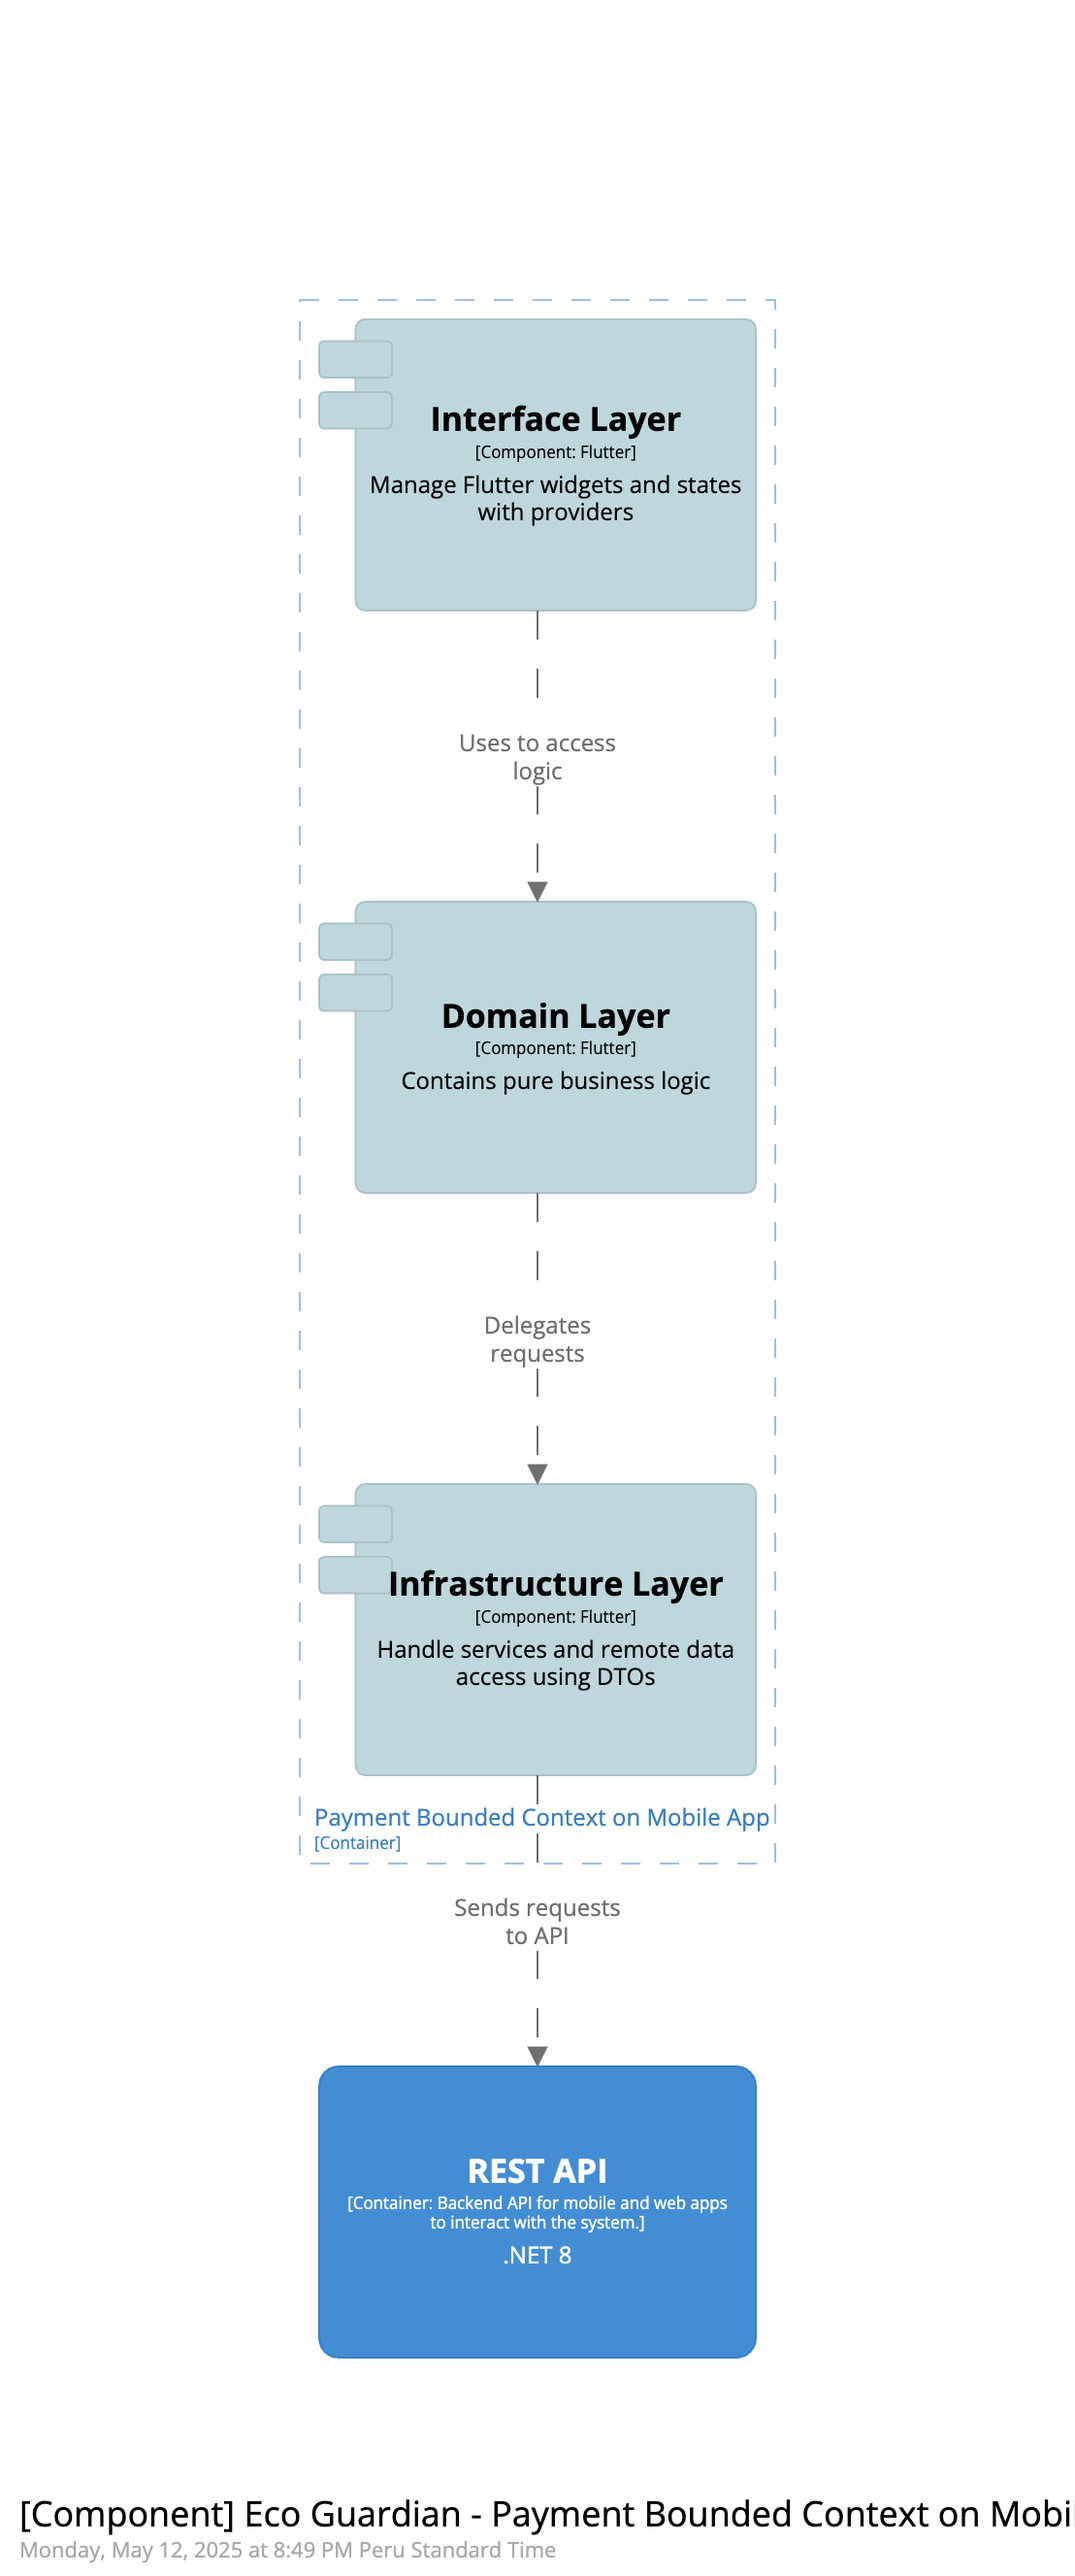
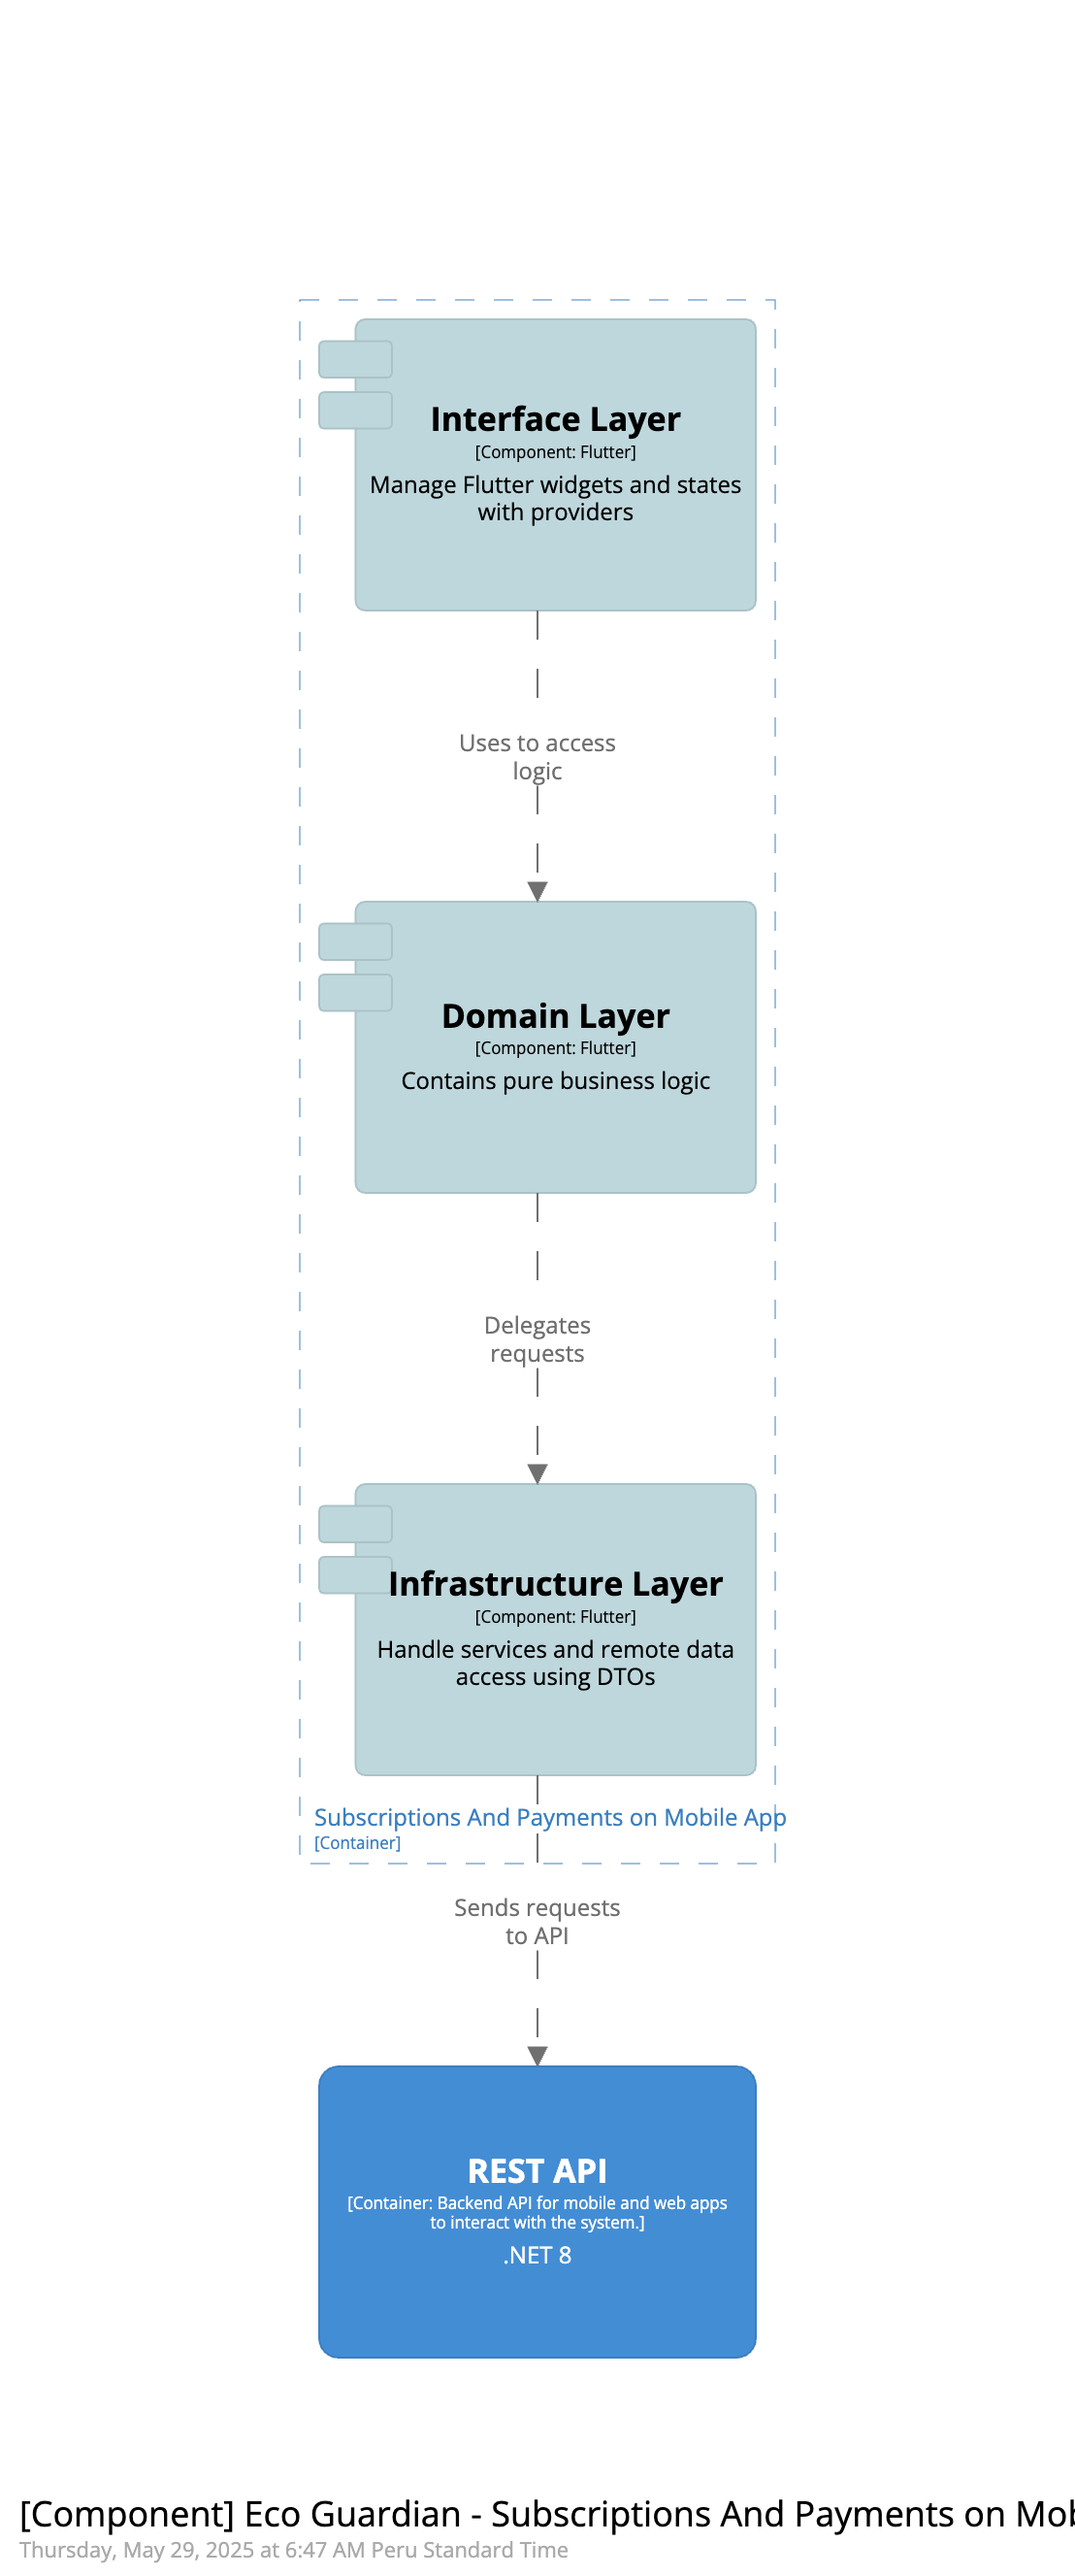
docs: updted subcripton and payments components diagram

Changed region(s): [[0.0307, 0.9578, 1.0, 1.0], [0.3069, 0.6797, 0.5523, 0.7106], [0.583, 0.6797, 0.7058, 0.7106]]

diff --git a/Report_Releases/upc-pre-202510-1asi0572-2971-WeMade-report-TB2.md b/Report_Releases/upc-pre-202510-1asi0572-2971-WeMade-report-TB2.md
@@ -4270,7 +4270,7 @@ Mobile App:
 
 
 
-### 4.2.4. Bounded Context: Payment
+### 4.2.4. Bounded Context: Subscriptions And Payments
 
 Web App:
 - En esta capa se describen las clases que representan las abstracciones del dominio. Se incluyen clases de serialización de respuestas y solicitudes asi como aquellas que se encargaran de realizar peticiones a nuestro servicio.
@@ -4471,19 +4471,14 @@ Backend:
 
 **OrderState**
 
-<img src="../assets/component-diagrams/structurizr-101372-SubscriptionBCWebApp.png" alt="Subscription Component Diagram on Web App"/>
-
 | Atributo | Tipo   |
 |----------|--------|
 | Id       | Int    |
 | Type     | String |
 
-<img src="../assets/component-diagrams/structurizr-101372-SubscriptionSystem.png" alt="Subscription Component Diagram on API"/>
 
 **SubscriptionType**
 
-<img src="../assets/component-diagrams/structurizr-101372-SubscriptionBoundedContextonMobileApp.png"
-alt="Subscriptiom Component Diagram on Mobile App"/>
 
 | Atributo | Tipo   |
 |----------|--------|
@@ -4823,7 +4818,7 @@ En esta sección se muestran los diagramas de componentes de los diferentes prod
 
 Web App:
 
-<img src="../assets/component-diagrams/structurizr-101372-PaymentBCWebApp.png" alt="Payment Component Diagram on Web App" width="350"/>
+<img src="../assets/component-diagrams/structurizr-101372-SubscriptionBCWebApp.png" alt="Payment Component Diagram on Web App" width="350"/>
 
 Backend:
 
